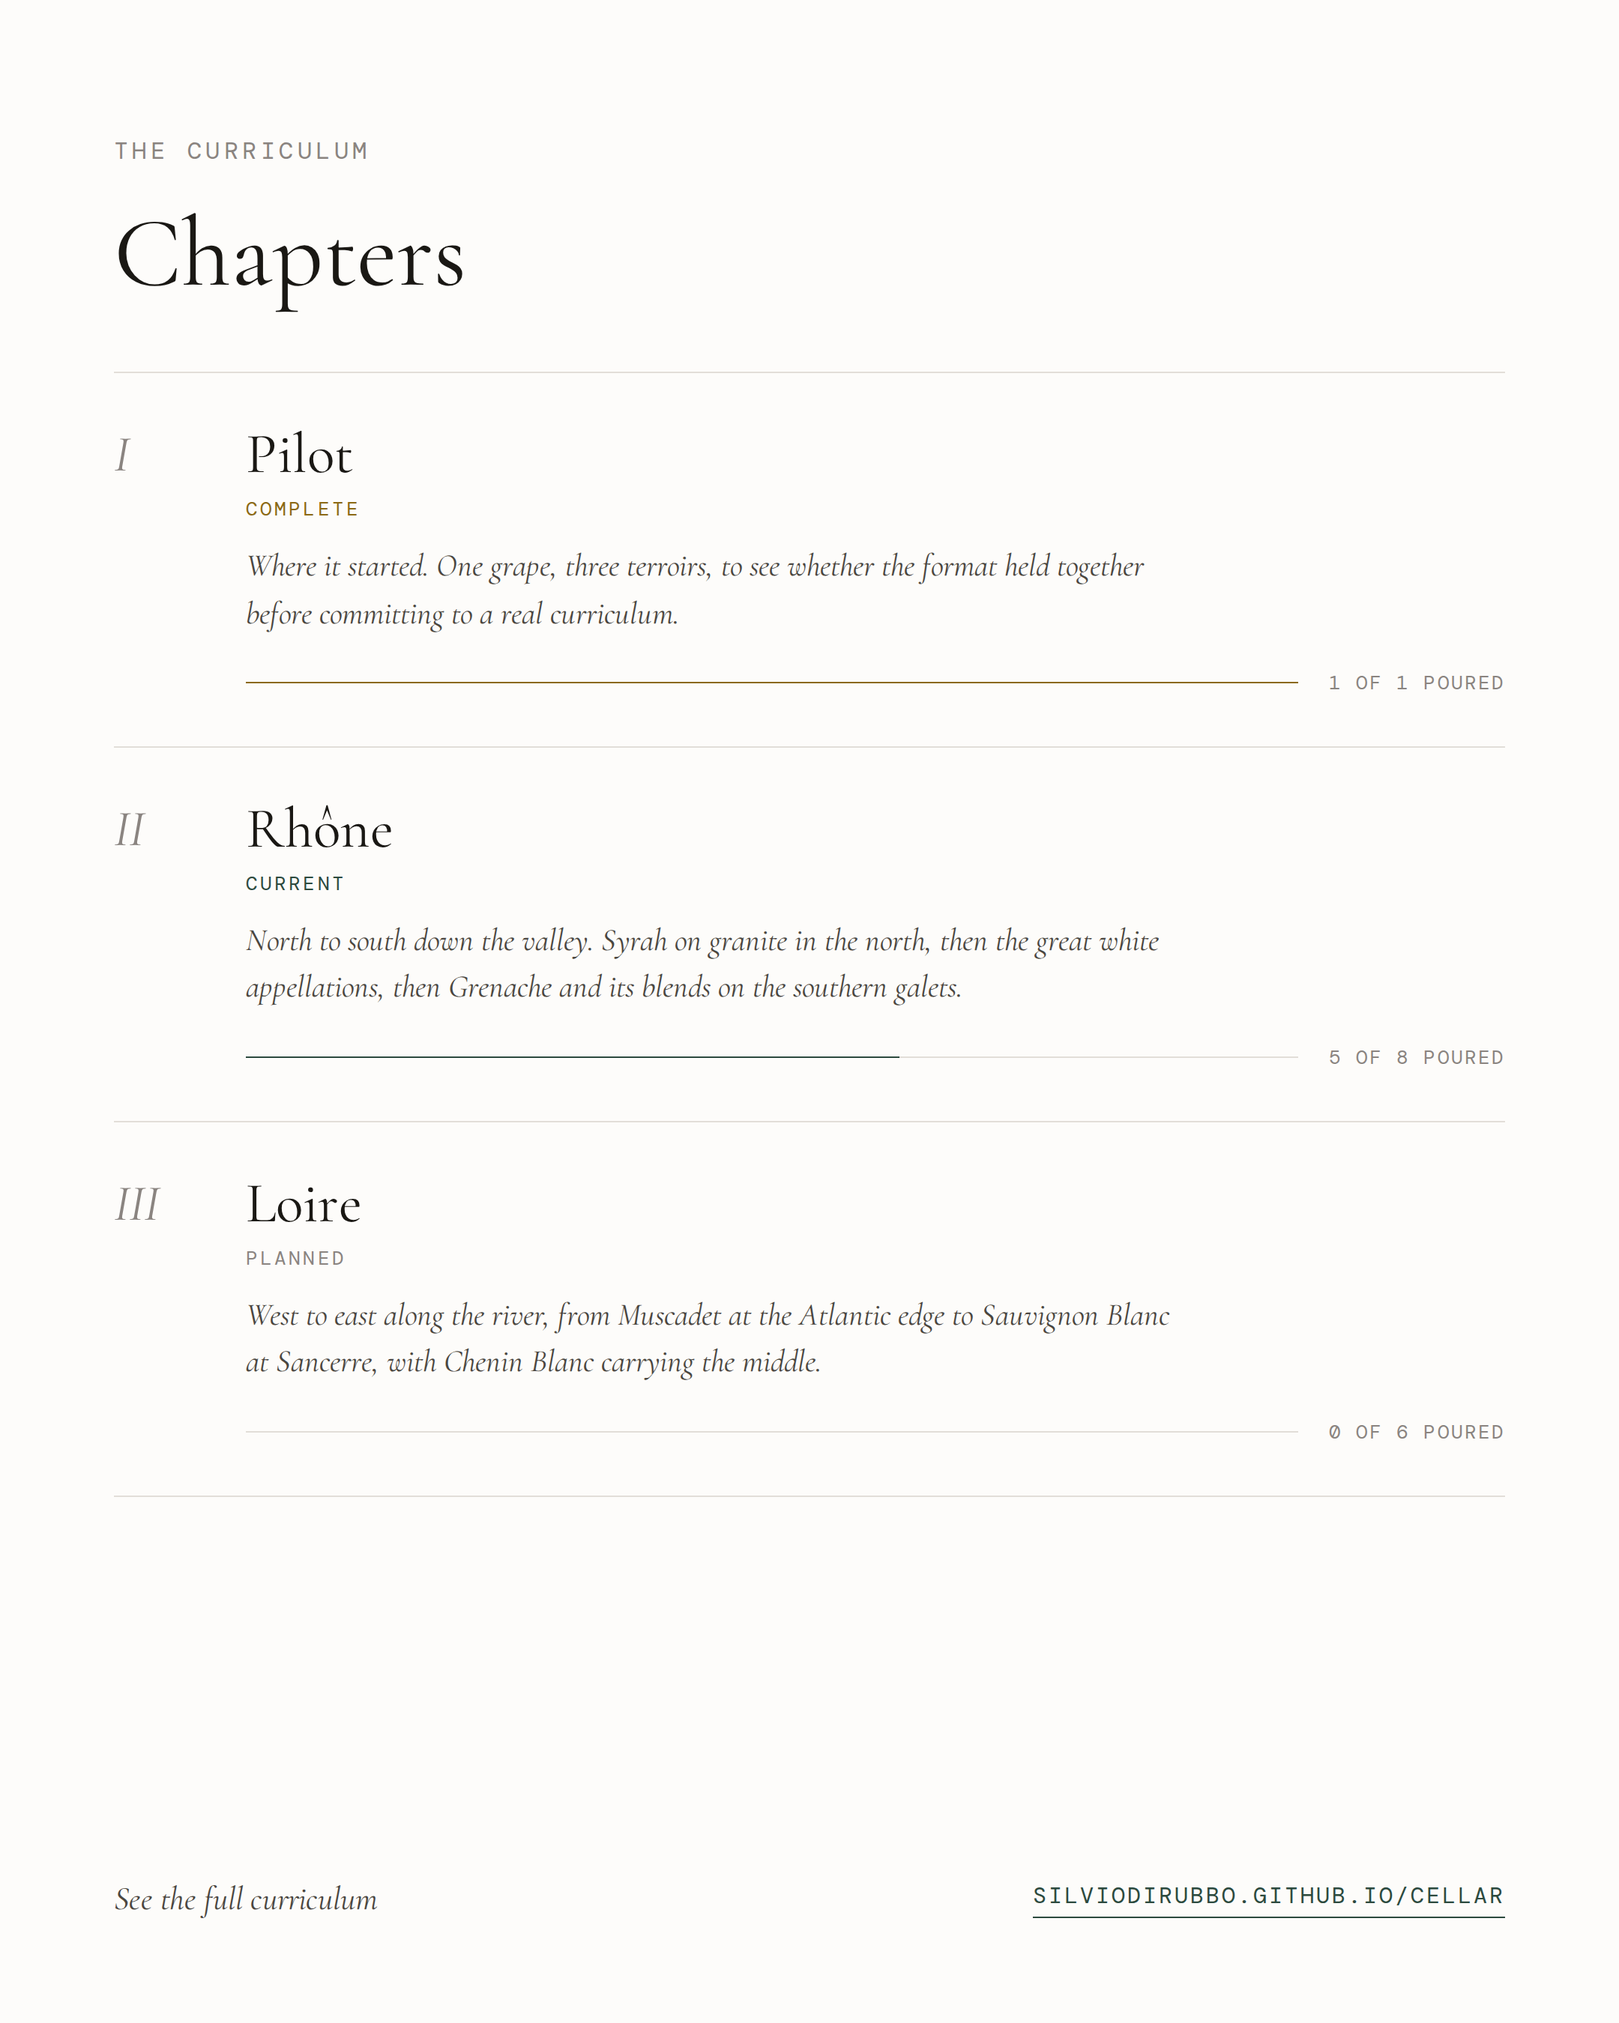
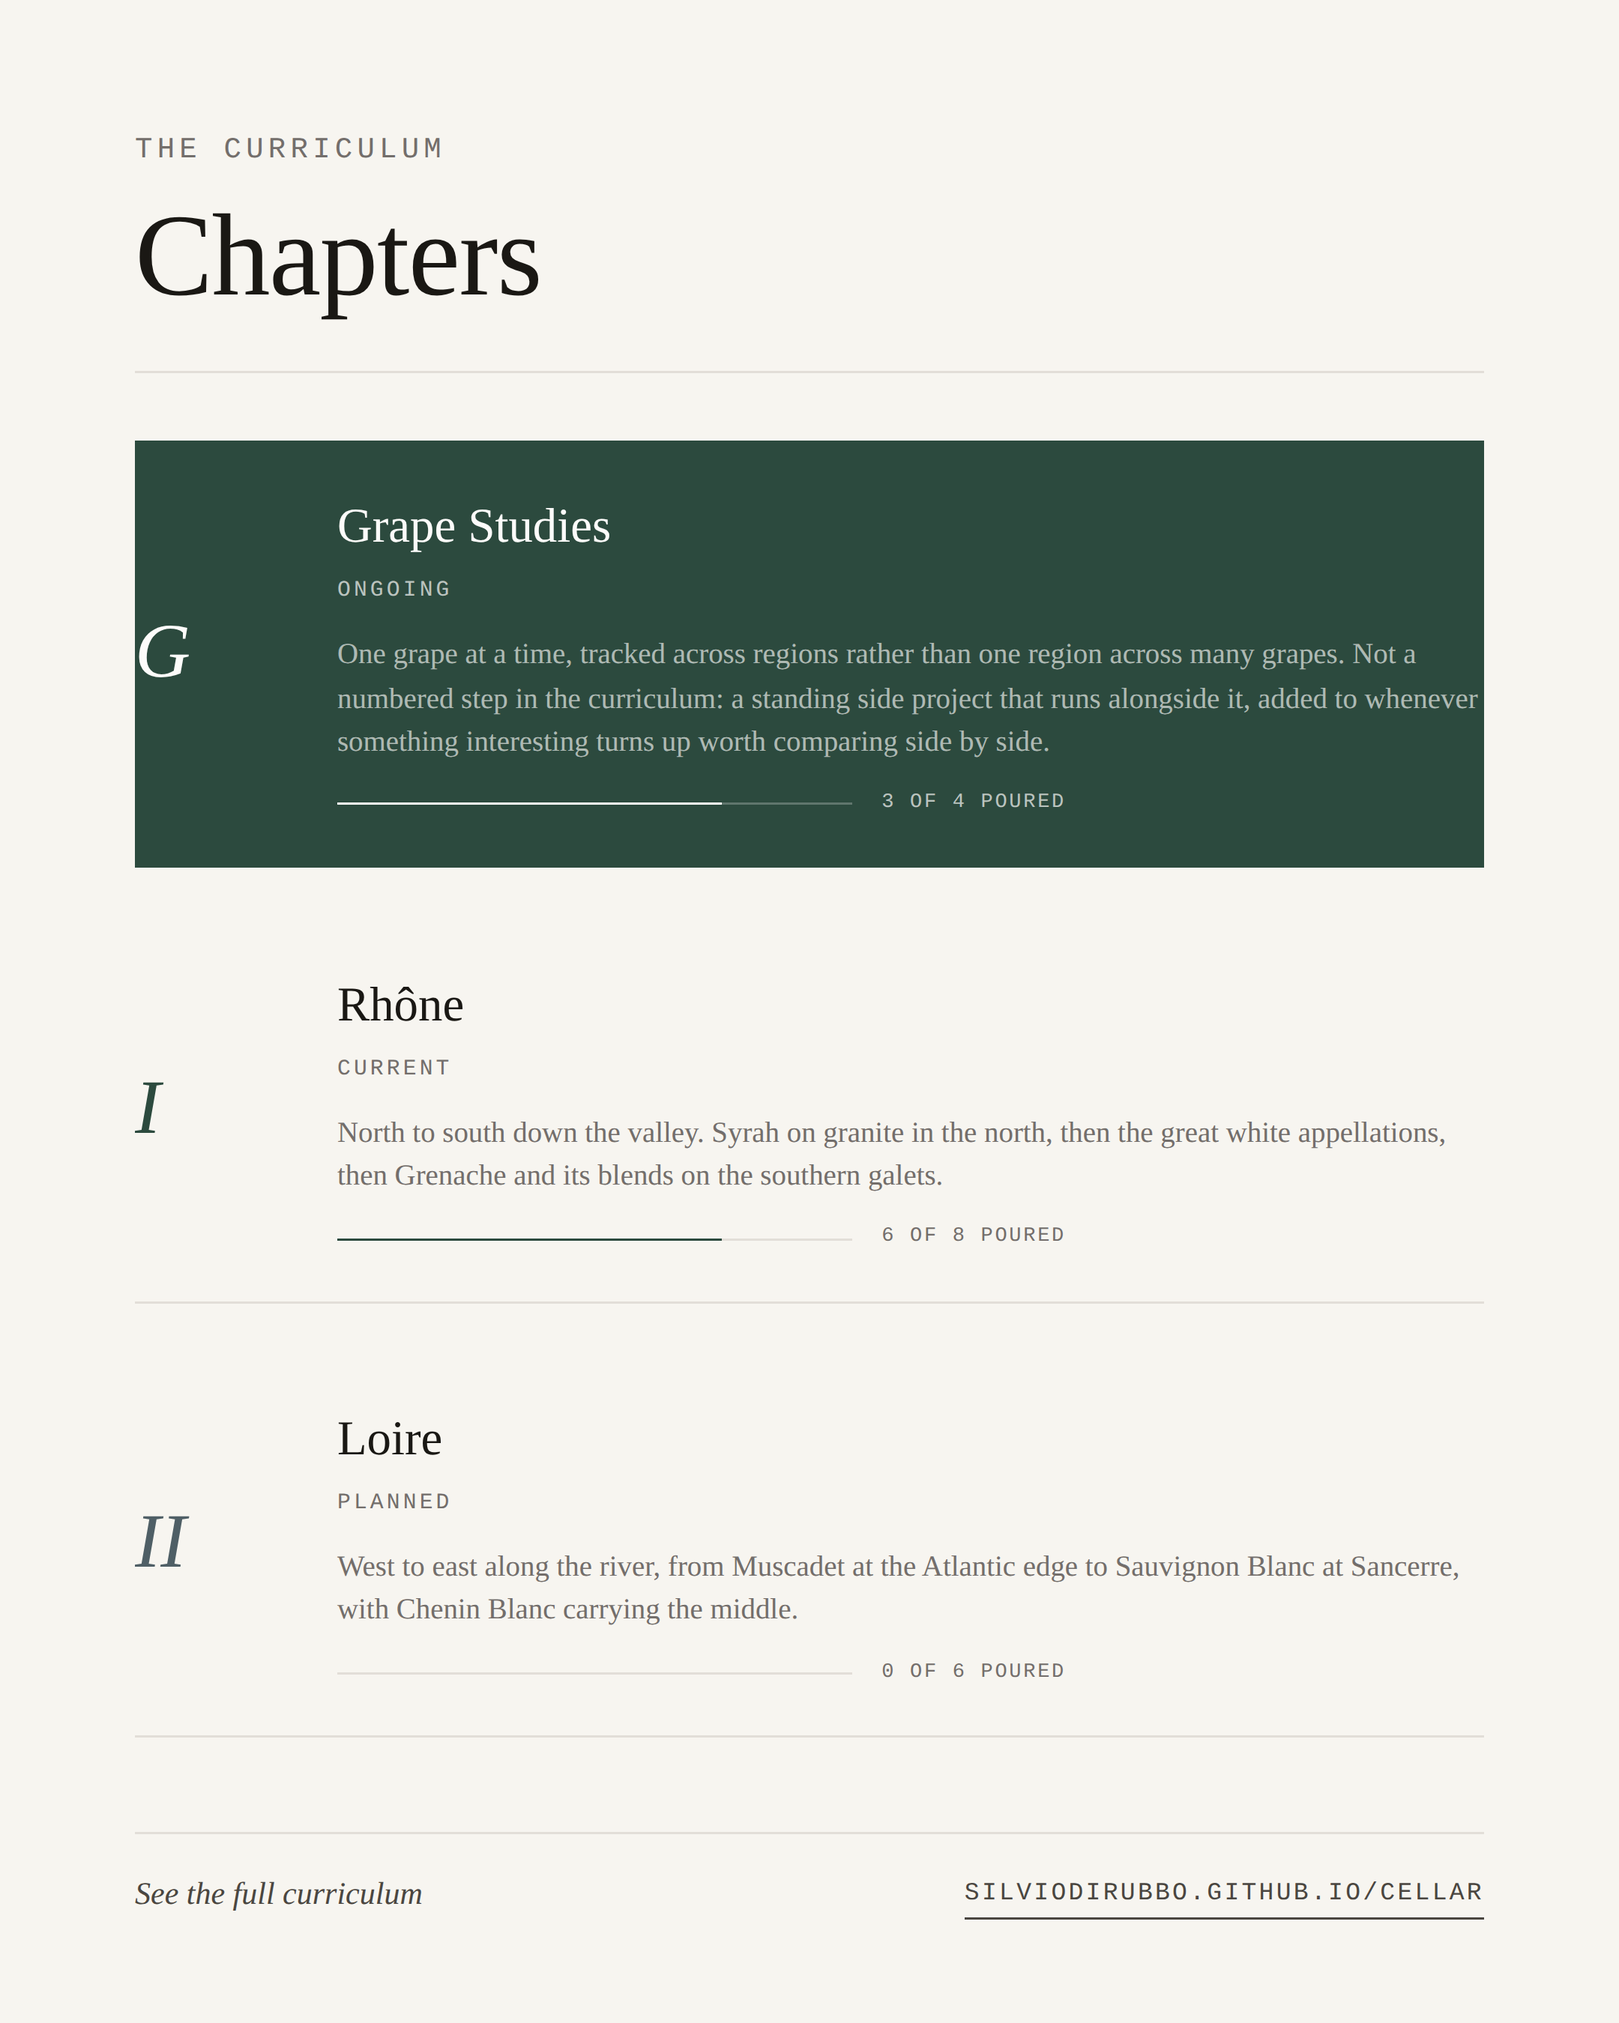
Refresh Pilot carousel slides 4 and 5 with current tastings data
The pilot carousel PNGs in assets/Pilot/ had no source template, so
this adds one: a new pilot-social/ page pair rendered via a new
scripts/render-pilot.js (Playwright, 720x900 canvas at 3x device
scale, matching the existing 2160x2700 4:5 export size). The two new
_includes/pilot/*.html partials reuse the live chapters-row,
chapter-progress and tl-card--feature markup and Liquid straight from
chapters/index.html and tastings/index.html, so the numbers come from
_data/tastings.yml and _chapters/*.md rather than being retyped.

slide-4-chapters.png: the old "Pilot" chapter (I, complete, 1 of 1
poured) has since been folded into "Grape Studies" (numeral G, state
ongoing, now 3 of 4 poured). Rhone moved from 5 of 8 to 6 of 8 poured
and is now numeral I instead of II. Loire is unchanged at 0 of 6
poured but is now numeral II instead of III.

slide-5-tastings.png: the next upcoming tasting is now Chateauneuf-du-
Pape: The Whites (18 Sep 2026, in 5 days), replacing Condrieu
Horizontal, which has since been held. Wine list, spots, cost and the
day count all come from the live data and the site's own countdown
script.

slide-1-cover.png, slide-3-pilot-summary.png and slide-6-propose-
topic.png are unchanged: verified they carry no stale data (the pilot
tasting's wines and date are historical and fixed, and slides 1 and 6
are evergreen), so they were left as-is rather than regenerated from
a guessed recreation of their original design.
[…]

diff --git a/assets/css/main.css b/assets/css/main.css
@@ -1804,3 +1804,57 @@ a.th-stat:hover .th-stat__num { color: var(--warm-white); }
 .story--magenta .li-wine__meta,
 .story--blue .li-wine__meta { color: rgba(253,252,250,0.5); }
 
+/* ============================================================
+   PILOT SOCIAL CARDS: fixed 720x900 (4:5) export canvas
+   (_layouts/pilot.html + _includes/pilot/*.html). Unlike the story
+   canvases above, these reuse the site's own live components
+   (chapters-row, chapter-progress, tl-card--feature, wine-menu,
+   chapter-tag, btn) and Liquid straight from chapters/index.html and
+   tastings/index.html, so the numbers stay accurate without manual
+   updates. Only the .pilot wrapper and the size overrides below are
+   new, scaling those desktop-proportioned components down to a
+   720x900 card. Rendered via scripts/render-pilot.js.
+   ============================================================ */
+.pilot { position: relative; width: 720px; height: 900px; overflow: hidden; font-family: var(--font-serif); }
+.pilot--offwhite { background: var(--off-white); }
+.pilot__inner { position: absolute; inset: 0; padding: 56px 60px 44px; display: flex; flex-direction: column; }
+
+.pilot-eyebrow { font-family: var(--font-mono); font-weight: 300; font-size: 13px; letter-spacing: 0.16em; text-transform: uppercase; color: var(--ink-light); margin-bottom: 10px; flex: 0 0 auto; }
+.pilot-title { font-family: var(--font-serif); font-weight: 300; font-size: 52px; line-height: 1.05; color: var(--ink); margin-bottom: 22px; flex: 0 0 auto; }
+.pilot-dateline { font-family: var(--font-mono); font-weight: 300; font-size: 12px; letter-spacing: 0.06em; text-transform: uppercase; color: var(--ink-light); margin: -10px 0 22px; flex: 0 0 auto; }
+.pilot-rule { border: none; border-top: 1px solid var(--rule); margin: 0 0 8px; flex: 0 0 auto; }
+
+/* Chapters card: reuse .chapters-row/.chapter-progress, drop the
+   arrow column (no href on a static card) and scale text down. */
+.pilot-chapters { display: flex; flex-direction: column; flex: 1 1 auto; overflow: hidden; justify-content: space-evenly; }
+.pilot .chapters-row { grid-template-columns: 3rem 1fr; padding: 1.1rem 0; }
+.pilot .chapters-row:first-child { border-top: none; }
+.pilot .chapters-row__numeral { font-size: 1.9rem; }
+.pilot .chapters-row__title { font-size: 1.2rem; margin-bottom: 0.15rem; }
+.pilot .chapters-row__state { font-size: 0.55rem; margin-bottom: 0.5rem; }
+.pilot .chapters-row__blurb { font-size: 0.72rem; line-height: 1.5; max-width: 100%; margin-bottom: 0.6rem; }
+.pilot .chapter-progress__label { font-size: 0.5rem; }
+.pilot .chapters-row.chapters-row--feature { padding: 1.1rem 1.2rem; margin-left: -1.2rem; margin-right: -1.2rem; }
+
+/* Tastings card: reuse .tl-card--feature/.wine-menu/.btn, scale down. */
+.pilot-feature-wrap { flex: 1 1 auto; display: flex; flex-direction: column; justify-content: center; overflow: hidden; }
+.pilot .pilot-feature.tl-card--feature { border-left-width: 3px; }
+.pilot .pilot-feature .tl-card__body { padding: 1.4rem 1.5rem 1.5rem; }
+.pilot .pilot-feature .tl-card__flag { font-size: 0.5rem; padding: 0.22rem 0.55rem; }
+.pilot .pilot-feature .chapter-tag { font-size: 0.5rem; }
+.pilot .pilot-feature .tl-card__title { font-size: 1.7rem; margin-bottom: 0.3rem; }
+.pilot .pilot-feature .tl-card__where { font-size: 0.52rem; margin-bottom: 0.6rem; }
+.pilot .pilot-feature .tl-card__desc { font-size: 0.75rem; max-width: none; }
+.pilot .pilot-feature .tl-card__menu { margin-top: 0.9rem; max-width: none; }
+.pilot .pilot-feature .wine-menu__label { font-size: 0.5rem; }
+.pilot .pilot-feature .wine-line { padding: 0.3rem 0; }
+.pilot .pilot-feature .wine-line__name { font-size: 0.85rem; }
+.pilot .pilot-feature .wine-line__vintage { font-size: 0.6rem; }
+.pilot .pilot-feature .wine-line__detail { font-size: 0.48rem; }
+.pilot .pilot-feature .tl-card__foot { margin-top: 0.9rem; padding-top: 0.9rem; gap: 0.6rem; }
+.pilot .pilot-feature .btn { font-size: 0.5rem; padding: 0.5rem 0.9rem; }
+
+.pilot-footer { display: flex; align-items: center; justify-content: space-between; flex: 0 0 auto; margin-top: 20px; padding-top: 16px; border-top: 1px solid var(--rule); }
+.pilot-footer__cta { font-family: var(--font-serif); font-style: italic; font-size: 14px; color: var(--ink-mid); }
+.pilot-footer__url { font-family: var(--font-mono); font-size: 11px; letter-spacing: 0.1em; text-transform: uppercase; color: var(--ink-mid); border-bottom: 1px solid var(--ink-mid); padding-bottom: 1px; }
+

diff --git a/_includes/pilot/tastings-card.html b/_includes/pilot/tastings-card.html
@@ -1,0 +1,60 @@
+{% comment %}
+  Pilot social card, refresh of assets/Pilot/slide-5-tastings.png.
+  Reuses the live tl-card--feature markup and the same next-tasting
+  Liquid as tastings/index.html (including the js-countdown span,
+  populated by the site's own assets/js/main.js), so wines, date,
+  spots, cost and the day count stay accurate. Header eyebrow/title
+  and the dateline are bespoke copy for this card (page.dateline,
+  set in front matter), not lifted verbatim from the live page header.
+{% endcomment %}
+{% assign next = site.data.tastings | where: "status", "upcoming" | where: "date_tbd", false | sort: "date" | first %}
+{% assign chapter_obj = nil %}
+{% if next.chapter %}{% assign chapter_obj = site.chapters | where: "slug", next.chapter | first %}{% endif %}
+{% capture cover_prefix %}/assets/tastings/{{ next.slug }}/cover{% endcapture %}
+{% assign cover = site.static_files | where_exp: "f", "f.path contains cover_prefix" | first %}
+<div class="pilot pilot--offwhite">
+  <div class="pilot__inner">
+    <p class="pilot-eyebrow">THE CALENDAR</p>
+    <h1 class="pilot-title">Tastings</h1>
+    <p class="pilot-dateline">{{ page.dateline }}</p>
+    <div class="pilot-feature-wrap">
+      <div class="tl-card tl-card--feature pilot-feature" style="{% if chapter_obj %}--chapter-accent: {{ chapter_obj.color }};{% endif %}{% if cover %}background-image: url('{{ cover.path | relative_url }}');{% endif %}">
+        <div class="tl-card__body">
+          <span class="tl-card__flag">Next tasting<span class="js-countdown" data-date="{{ next.date }}"></span></span>
+          {% if chapter_obj %}<span class="chapter-tag">{{ chapter_obj.title }}</span>{% endif %}
+          <h2 class="tl-card__title">{{ next.title }}</h2>
+          <div class="tl-card__where">
+            {{ next.region }}{% if next.location %} &middot; {{ next.location }}{% endif %}{% if next.spots_total %} &middot; <span class="text-gold">{{ next.spots_total }} spots</span>{% endif %}{% if next.cost_estimate %} &middot; ~{{ next.cost_estimate }}{% endif %}
+          </div>
+          <p class="tl-card__desc">{{ next.description }}</p>
+          {% if next.wines %}
+          <div class="tl-card__menu">
+            <span class="wine-menu__label">On the table</span>
+            <ol class="wine-menu wine-menu--dark">
+              {% for wine in next.wines %}
+              <li class="wine-line">
+                <span class="wine-line__main">
+                  <span class="wine-line__name">{{ wine.producer }} &middot; <em>{{ wine.name }}</em></span>
+                  <span class="wine-line__dots" aria-hidden="true"></span>
+                  <span class="wine-line__vintage">{{ wine.vintage }}</span>
+                </span>
+                <span class="wine-line__detail">{{ wine.appellation }}{% if wine.blend %} &middot; {{ wine.blend }}{% endif %}</span>
+              </li>
+              {% endfor %}
+            </ol>
+          </div>
+          {% endif %}
+          <div class="tl-card__foot">
+            <span class="btn btn--hero">I'm coming</span>
+            <span class="btn btn--text-light">Add to calendar</span>
+            {% if next.slides %}<span class="btn btn--text-light">Presentation &rarr;</span>{% endif %}
+          </div>
+        </div>
+      </div>
+    </div>
+    <div class="pilot-footer">
+      <span class="pilot-footer__cta">See what's coming next</span>
+      <span class="pilot-footer__url">silviodirubbo.github.io/cellar</span>
+    </div>
+  </div>
+</div>

diff --git a/_includes/pilot/chapters-card.html b/_includes/pilot/chapters-card.html
@@ -1,0 +1,39 @@
+{% comment %}
+  Pilot social card, refresh of assets/Pilot/slide-4-chapters.png.
+  Reuses the live chapters-row/chapter-progress markup and the same
+  held/total Liquid as chapters/index.html, so the numbers stay
+  accurate. Header eyebrow/title and the closing line are bespoke
+  copy for this card, not lifted verbatim from the live page (which
+  also carries a longer subtitle paragraph this card omits).
+{% endcomment %}
+{% assign chapters = site.chapters | sort: "order" %}
+<div class="pilot pilot--offwhite">
+  <div class="pilot__inner">
+    <p class="pilot-eyebrow">THE CURRICULUM</p>
+    <h1 class="pilot-title">Chapters</h1>
+    <hr class="pilot-rule">
+    <div class="pilot-chapters">
+      {% for chapter in chapters %}
+        {% assign items = site.data.tastings | where: "chapter", chapter.slug %}
+        {% assign held = items | where: "status", "past" | size %}
+        {% assign total = items.size %}
+        {% if chapter.planned_total and chapter.planned_total > total %}
+          {% assign total = chapter.planned_total %}
+        {% endif %}
+        <div class="chapters-row{% if chapter.state == "ongoing" %} chapters-row--feature{% endif %}" style="--chapter-accent: {{ chapter.color }};">
+          <span class="chapters-row__numeral" aria-hidden="true">{{ chapter.numeral }}</span>
+          <span class="chapters-row__body">
+            <span class="chapters-row__title">{{ chapter.title }}</span>
+            <span class="chapters-row__state">{{ chapter.state | capitalize }}</span>
+            <span class="chapters-row__blurb">{{ chapter.blurb }}</span>
+            {% include chapter-progress.html held=held total=total %}
+          </span>
+        </div>
+      {% endfor %}
+    </div>
+    <div class="pilot-footer">
+      <span class="pilot-footer__cta">See the full curriculum</span>
+      <span class="pilot-footer__url">silviodirubbo.github.io/cellar</span>
+    </div>
+  </div>
+</div>

diff --git a/scripts/render-pilot.js b/scripts/render-pilot.js
@@ -1,0 +1,51 @@
+#!/usr/bin/env node
+// Renders the Pilot social-card pages under pilot-social/*.html to PNG.
+// Usage: node scripts/render-pilot.js <base-url> <built-site-dir> <output-dir>
+// e.g.:  node scripts/render-pilot.js http://127.0.0.1:8123/cellar _site out/
+//
+// Same approach as render-stories.js and render-linkedin.js: expects the
+// built site served over HTTP (baseurl-prefixed asset links won't resolve
+// over file://), device_scale_factor 3, a screenshot of the .pilot element
+// only, and a wait_for_timeout for Google Fonts. The .pilot canvas is
+// 720x900 CSS px, so at 3x that lands on the 2160x2700 (4:5) export size
+// assets/Pilot/*.png already use.
+
+const path = require('path');
+const fs = require('fs');
+const { chromium } = require('playwright');
+
+async function main() {
+  const baseUrl = (process.argv[2] || '').replace(/\/$/, '');
+  const siteDir = path.resolve(process.argv[3] || '_site');
+  const outDir = path.resolve(process.argv[4] || 'pilot-out');
+  fs.mkdirSync(outDir, { recursive: true });
+
+  const pilotDir = path.join(siteDir, 'pilot-social');
+  const files = fs.readdirSync(pilotDir)
+    .filter((f) => f.endsWith('.html'))
+    .sort();
+
+  const browser = await chromium.launch({ args: ['--no-sandbox'] });
+  const page = await browser.newPage({
+    viewport: { width: 1000, height: 1200 },
+    deviceScaleFactor: 3,
+  });
+
+  for (const file of files) {
+    const url = `${baseUrl}/pilot-social/${file}`;
+    await page.goto(url, { waitUntil: 'load' });
+    await page.waitForTimeout(2000); // let Google Fonts (and the countdown script) settle
+    const el = await page.$('.pilot');
+    const outName = file.replace(/\.html$/, '.png');
+    const outPath = path.join(outDir, outName);
+    await el.screenshot({ path: outPath });
+    console.log('rendered', outName);
+  }
+
+  await browser.close();
+}
+
+main().catch((err) => {
+  console.error(err);
+  process.exit(1);
+});

diff --git a/_layouts/pilot.html b/_layouts/pilot.html
@@ -1,0 +1,19 @@
+<!DOCTYPE html>
+<html lang="en">
+<head>
+  <meta charset="UTF-8">
+  <title>{{ page.title }} &middot; Cellar Pilot Card</title>
+  <link rel="stylesheet" href="{{ '/assets/css/main.css' | relative_url }}">
+  <style>
+    html, body { margin: 0; padding: 0; background: var(--off-white); }
+  </style>
+</head>
+<body>
+  {% if page.pilot_type == "chapters" %}
+    {% include pilot/chapters-card.html %}
+  {% elsif page.pilot_type == "tastings" %}
+    {% include pilot/tastings-card.html %}
+  {% endif %}
+  <script src="{{ '/assets/js/main.js' | relative_url }}"></script>
+</body>
+</html>

diff --git a/pilot-social/pilot-05-tastings.html b/pilot-social/pilot-05-tastings.html
@@ -1,0 +1,7 @@
+---
+layout: pilot
+pilot_type: tastings
+permalink: /pilot-social/pilot-05-tastings.html
+sitemap: false
+dateline: "SUNDAY, 13 SEPTEMBER 2026, GENEVA. THE ROAD AHEAD:"
+---

diff --git a/pilot-social/pilot-04-chapters.html b/pilot-social/pilot-04-chapters.html
@@ -1,0 +1,6 @@
+---
+layout: pilot
+pilot_type: chapters
+permalink: /pilot-social/pilot-04-chapters.html
+sitemap: false
+---
